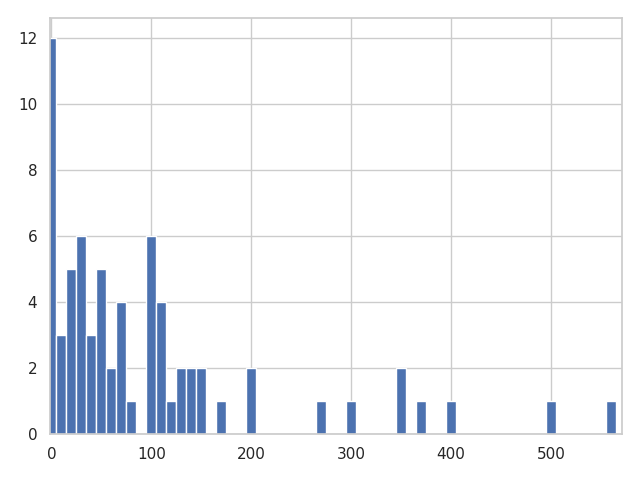
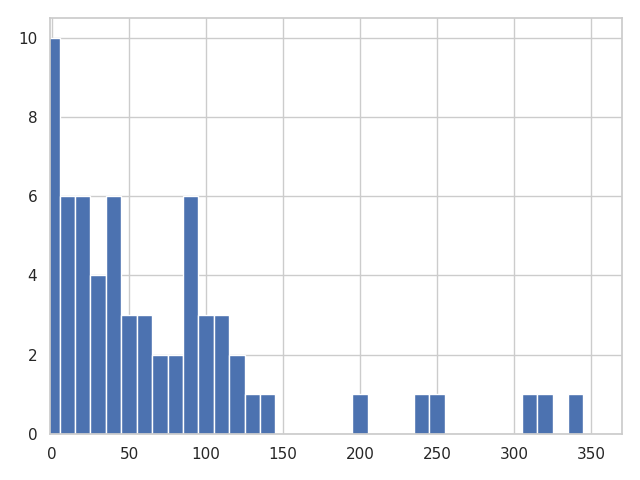
moved original NIMA

diff --git a/survey/analyser.py b/survey/analyser.py
@@ -19,7 +19,7 @@ from edit_image import parameter_range
 sns.set(style="whitegrid")
 
 submission_log = Path.home() / "eclipse-workspace" / "NIAA" / "survey" / "survey.csv"  # type: Path
-# submission_log = Path("/scratch") / "stud" / "pfister" / "NIAA" / "pexels" / "logs" / "survey_NIMA.csv"  # type: Path
+submission_log = Path("/scratch") / "stud" / "pfister" / "NIAA" / "pexels" / "logs" / "survey_NIMA.csv"  # type: Path
 plot_dir = Path.home() / "eclipse-workspace" / "NIAA" / "analysis" / "survey"  # type: Path
 
 plot_dir.mkdir(parents=True, exist_ok=True)
